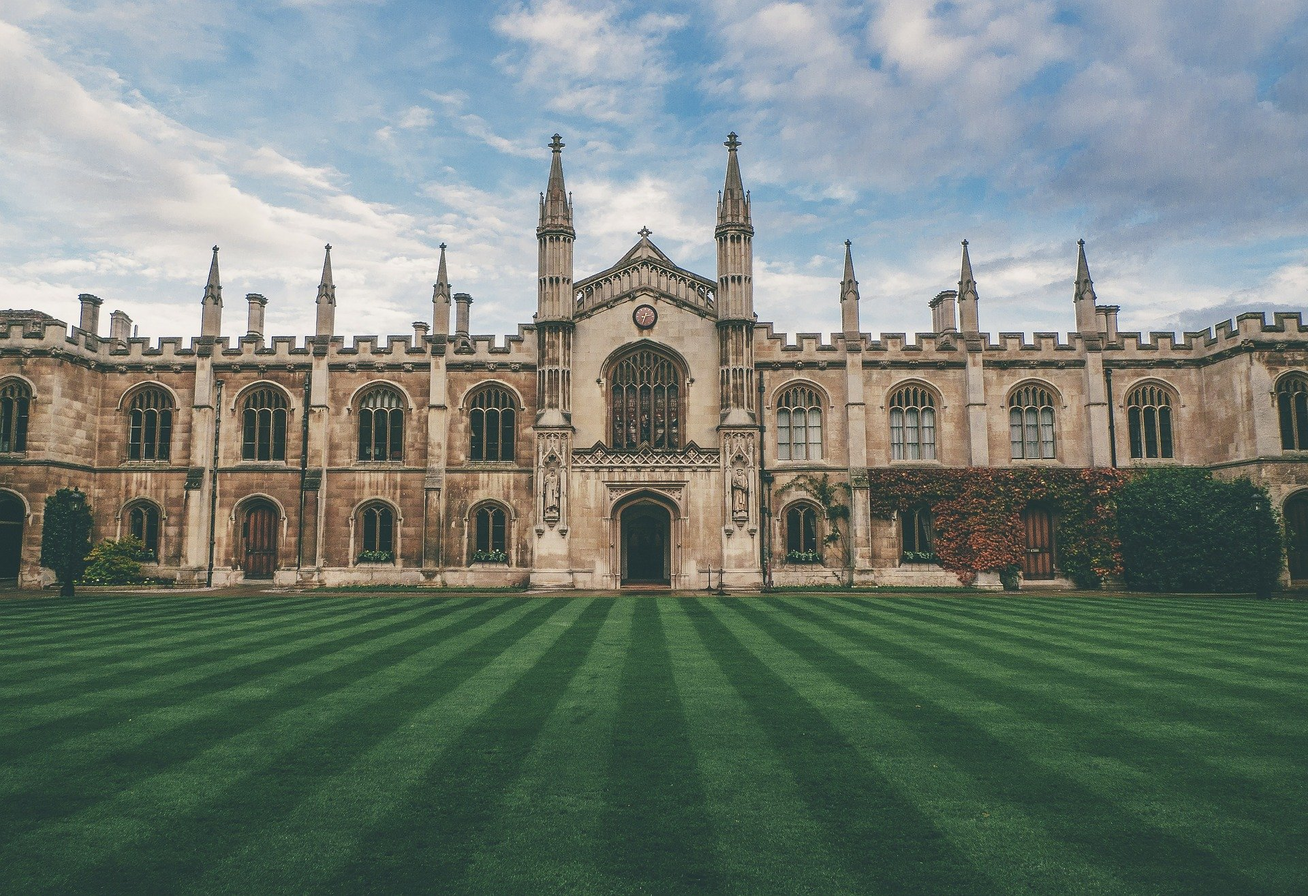
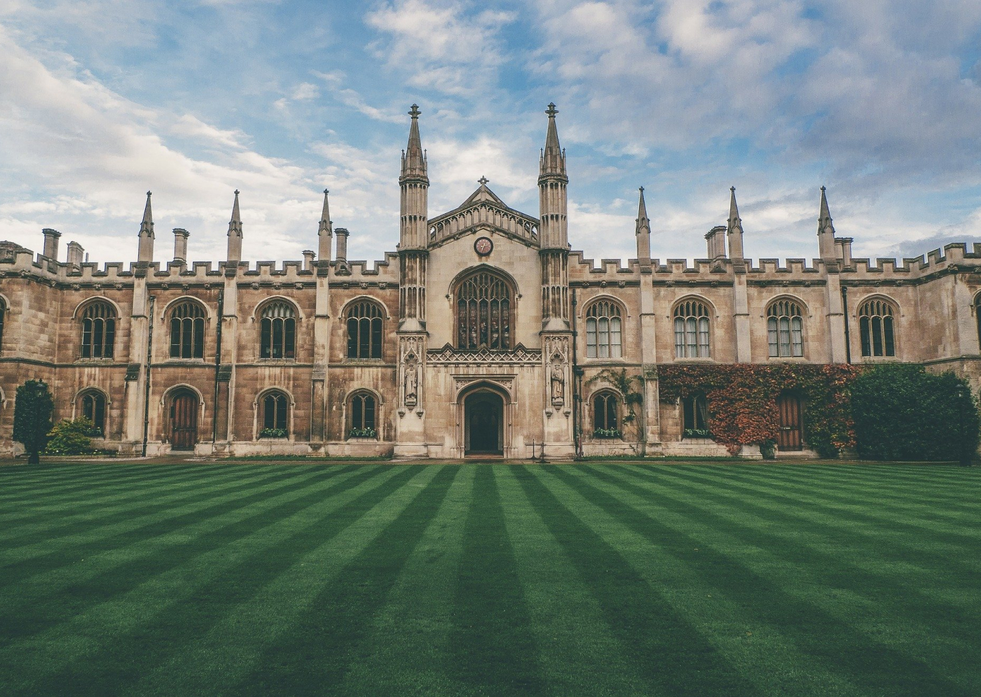
Stage random (marchepas)

diff --git a/ingame.py b/ingame.py
@@ -1,3 +1,4 @@
+from random import randint
 import pygame
 import class_game
 from fonctions import *
@@ -6,6 +7,7 @@ pygame.init()
 
 '''p1 = player("P1")
 P2 = player("P2")'''
+
 
 def Combat():
     for event in pygame.event.get():
@@ -58,9 +60,19 @@ def barre_de_vie(game,display_surface):
         pygame.draw.rect(display_surface, game.player.bar_vie_J2, game.player.bar_position_J2, 0, 25)
         pygame.draw.rect(display_surface, bar_border, [920, 20, 500, 50], 3, 25)
 
-def choix_background(game,display_surface):
-    if game.player.legends_J1 == 'isis':
+def choix_background_local(game,display_surface,stage_select):
+    if stage_select == 1:
         display_surface.blit(game.image['isis_back'], (0, 0))
+    if stage_select == 2:
+        display_surface.blit(game.image['gunnar_back'], (0, 0))
+    if stage_select == 3:
+        display_surface.blit(game.image['bigband_back'], (0, 0))
+    if stage_select == 4:
+        display_surface.blit(game.image['kitt_back'], (0, 0))
+    if stage_select == 5:
+        display_surface.blit(game.image['harry_back'], (0, 0))
+    if stage_select == 6:
+        display_surface.blit(game.image['lucie_back'], (0, 0))
 
 
 def remplir_tableau():
@@ -86,7 +98,8 @@ def tableau_prop(display_surface):
         line_position_end[1] += 50
 
 def in_game(game,display_surface):
-    choix_background(game,display_surface)
+    stage_select = 1
+    choix_background_local(game,display_surface,stage_select)
     tableau_prop(display_surface)
     if game.player.legends_J1 == 'bigband':
         display_surface.blit(game.image['bigband_J1_1'], (0, 224))

diff --git a/class_game.py b/class_game.py
@@ -203,8 +203,23 @@ class game:
 
                 ## Background
 
-                #Bigband
-                'isis_back' : pygame.image.load('assets/image/en_jeu/background/isis_background.jpg'),
+                    #Isis
+                    'isis_back' : pygame.image.load('assets/image/en_jeu/background/isis_background.jpg'),
+
+                    #Bigband
+                    'bigband_back' : pygame.image.load('assets/image/en_jeu/background/bigband_background.jpg'),
+
+                    #K.I.T.T
+                    'kitt_back' : pygame.image.load('assets/image/en_jeu/background/kitt_background.jpg'),
+
+                    #Gunnar
+                    'gunnar_back' : pygame.image.load('assets/image/en_jeu/background/gunnar_background.jpg'),
+
+                    #Lucie
+                    'lucie_back' : pygame.image.load('assets/image/en_jeu/background/lucie_background.jpg'),
+
+                    #Harry
+                    'harry_back' : pygame.image.load('assets/image/en_jeu/background/harry_background.jpg'),
         }
 
         ### RECT DU JEU
